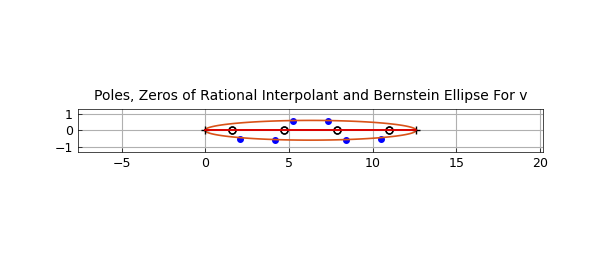
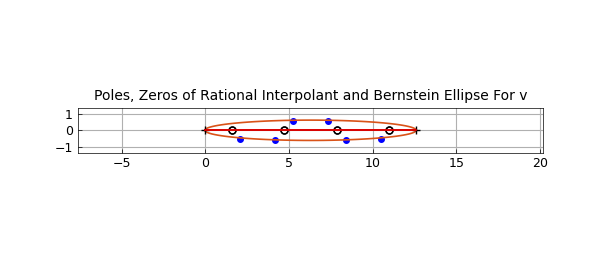
docs: refresh ThreeBody from verified CPU FFT602 execution
Publish actual stdout and changed figures after a complete unchanged script run; retain native ODE, SVD and rendering gaps with archived evidence.

Changed region(s): [[0.12, 0.3852, 0.9, 0.5333], [0.12, 0.563, 0.9, 0.5926]]

diff --git a/docs/numerical_parity_gaps_20261017.md b/docs/numerical_parity_gaps_20261017.md
@@ -6,8 +6,8 @@ function or example parity. Native reference is Chebfun 7574c77.
 | Path | Evidence | Next decision |
 |---|---|---|
 | Fixed48 PDE | Published scalar33 real CPU transform repair makes the unchanged authored fixed48 test pass;21parent controls qualify that scope. [Evidence](fft64_pde_cpu_20261017.json). | Broader FFT/PDE plans and latest-main CI remain required. |
-| Complex rational fit | Production poles still differ about1.04e-4. New complete JAX602inverse diagnostic matches367220native words; production transform is unchanged. [Evidence](ratinterp_full602_cpu_20261017.json). | Real602diagnostic now reproduces D302exactly; integrate both source transforms and verify public coefficients/poles plus independent controls. |
-| Small Hermite ASY | Later executed-route diagnostics qualify initializer/power/atan and Airy product/sqrt arithmetic. Free n2 improves to x8.98e-9/v4.18e-8 but still fails. [Sealed diagnostic review](/scratch/gpfs/CRYOEM/gilleslab/mg6942/_agent_scratch/hermite_airy_step8_review_20261017/REVIEW.json). | Resolve same-theta step9 geometry and remaining free trajectory; no guard removal or production Airy patch yet. |
+| Complex rational fit | Published FFT602/C2R integration qualifies129final-source controls and exactD/V/Z assembly. Pole gap is2.076e-11; denominator gap5.739e-12. [Evidence](fft602_rational_integration_cpu_20261017.json). | Fresh unchanged ThreeBody415coefficients equal retained input; full run104.57s,1380imports preguarded. Same-input JAX default/QR SVD both retain5.739e-12vector discrepancy. Full native ODE/second-fit/figure/performance parity remains open. |
+| Small Hermite ASY | Later diagnostics pass n2/5/12/16/20 scoped bounds; n3 preserves native source error. n4/6 fail and n8/10 exceed retained phase support. [Review](/scratch/gpfs/CRYOEM/gilleslab/mg6942/_agent_scratch/hermite_small_scope_review_20261017/REVIEW.json). | General gamma/Miller diagnostics improve n4 but leave node failure; derivative/Newton ordering remains under investigation. Production small-order guard retained. |
 
 [Detailed bindings and limitations](transform_sensitive_diagnostics_cpu_20261017.json)
 and [rational stage report](ratinterp_complex_stages_cpu_20261017.json) retain
@@ -25,7 +25,7 @@ unqualified. Different minima on a continuum are not evidence of an error.
 product arithmetic and mirroring for the retained complex fit. The gap remains
 open; diagnostic native crossfeeds are never production substitutions.
 
-## Complete complex602 inverse diagnostic — later 2026-10-17
+## Historical complex602 inverse diagnostic — superseded by integration below
 
 The complete JAX7x2x43inverse now matches all367220native outputwords across
 positive, actual602x151 and independently generated602x151 matrices. Outer
@@ -36,7 +36,7 @@ real2x7x43route constructing D302still differs up to4.44e-16; later diagnostic
 qualification below reproduces it exactly, with integration still required.
 [Full evidence and preserved failed attempts](ratinterp_full602_cpu_20261017.json).
 
-## Real602 and D302 diagnostic — later 2026-10-17
+## Historical real602 and D302 diagnostic — superseded by integration below
 
 The source-derived real602FFT matches275424nonredundant native outputwords
 across positive, actual and independent arrays. All690captured stagewords
@@ -44,3 +44,14 @@ match, and sourceD302construction matches all91204words. Both real and complex
 transform diagnostics are now qualified on these inputs. Production integration,
 exact final assembly/public poles and independent API/AD/performance controls
 remain required. [Evidence](ratinterp_real602_cpu_20261017.json).
+
+## Production integration and fresh ThreeBody execution
+
+[Production integration](fft602_rational_integration_cpu_20261017.json) supersedes
+the diagnostic-only production-status statements above. The unchanged complete
+[ThreeBody rerun](threebody_fft602_current_cpu_20261017.json) reproduces both
+rational fits and all four figures. All reference dimensions match; all four
+reference pixel comparisons differ. Five printed output blocks use actual
+captured stdout. The two changed PNGs and current numerical outputs are
+published. This does not close full native ODE, second-fit residue, renderer
+or matched native performance parity.

diff --git a/docs/examples/ode-nonlin/ThreeBodyProblem.md b/docs/examples/ode-nonlin/ThreeBodyProblem.md
@@ -99,7 +99,7 @@ max(abs(rh(linspace(0,4*pi,100)) - v(linspace(0,4*pi,100))))
 
 ```text
 ans =
-     4.859053661592988e-10
+     4.858349981994109e-10
 ```
 
 ## Analysis of Singularities
@@ -112,14 +112,14 @@ poles
 
 ```text
 poles =
-  2.092587694719901 - 0.539634303612716i
-  2.912620119913508 + 1.939058982833960i
-  4.188725872591013 - 0.551336319657008i
-  5.233710456912989 + 0.551707280056816i
-  7.332660227865999 + 0.551707257109169i
-  8.377644821226600 - 0.551336336168766i
-  9.653752540866988 + 1.939062237534320i
- 10.473782862057893 - 0.539634393888065i
+  2.092587943564713 - 0.539633935969581i
+  2.912578159741150 + 1.939020073309048i
+  4.188725944201677 - 0.551336253512759i
+  5.233710379376683 + 0.551707317232708i
+  7.332660340705836 + 0.551707092063434i
+  8.377644748935609 - 0.551336424392930i
+  9.653681175600379 + 1.939025959630813i
+ 10.473782281584352 - 0.539634403359369i
 ```
 
 A straightforward analysis considering the symmetries of the system (communicated to me by Viswanath) shows that if the solution that $v$ is approximating has any complex singularities, the real parts may only take the values $(\pi/3)[1,2,4,5]~(\mbox{mod}\ 2\pi)$.
@@ -130,14 +130,14 @@ real(poles)*3/pi
 
 ```text
 ans =
-   1.998274052807678
-   2.781347336598863
-   3.999938567278634
-   4.997825339576666
-   7.002174727669304
-   8.000061508598588
-   9.218654617589552
-  10.001725892206156
+   1.998274290436969
+   2.781307267585800
+   3.999938635661781
+   4.997825265534948
+   7.002174835423411
+   8.000061439565776
+   9.218586468779879
+  10.001725337894756
 ```
 
 We have found poles with real parts approximately $(\pi/3)[2,4,5,7,8,10]$, which agrees with the analysis. We do appear to have missed one singularity at $\pi/3$ and $11\pi/3$, but it is typical to expect only the singularities near the centre of the interval to be found. We have also found two additional poles. A plot shows that these are further from the real line.
@@ -203,7 +203,7 @@ This is a demonstration of the phenomenon of spurious poles or "Froissart double
 1. Private communication with Divakar Viswanath, July 2011
 2. A. Chenciner and R. Montgomery. A remarkable periodic solution of the three-body problem in the case of equal masses. *Annals of Mathematics- Second Series*, 152(3):881-902, 2000.
 3. P. Gonnet, R. Pachon, and L.N. Trefethen. Robust rational interpolation and least-squares. *Electronic Transactions on Numerical Analysis*, 38:146-167, 2011.
-4. Chebfun Example [approx/RationalInterp](https://www.chebfun.org/examples/approx/RationalInterp.html)
+4. Chebfun Example [approx/RationalInterp](../approx/RationalInterp.md)
 5. [http://en.wikipedia.org/wiki/Three_body_problem](http://en.wikipedia.org/wiki/Three_body_problem)
 
 ---

diff --git a/docs/parity_checklist.md b/docs/parity_checklist.md
@@ -27,6 +27,9 @@ There is **no defensible overall completion percentage** yet. Checked items belo
 
 ## Completed scoped work
 
+- [x] Fresh full ThreeBody after FFT602 integration:104.57s,1380actual imports preguarded, stable/no survivors. Fresh415coefficients match retained input words; bothfits and allfour600x270figures complete. Five actual stdout blocks and two changed PNGs regenerated. [Evidence](threebody_fft602_current_cpu_20261017.json). Full nativeODE/second-fit/renderer/performance parity remains open.
+
+
 - [x] Integrate source CPU602 Fourier/C2R arithmetic, direct inverse normalization and omitted Chebfun-domain inheritance. Final129checks pass, including all23literal default original ratinterp predicates and six native real-primal controls. Source D/product/coefficient assembly matches native words; public pole gap improves to2.076e-11. [Evidence](fft602_rational_integration_cpu_20261017.json).
 - [ ] Remaining rational SVD/pole gap, FFT wider plans/extreme values/dynamic native storage, full APIs and CPU performance. Local source kernels remain52.1x/32.7x slower than generic JAX at measured shapes; matched native performance unqualified.
 

diff --git a/HANDOFF_CODEX.md b/HANDOFF_CODEX.md
@@ -1,3 +1,16 @@
+# Latest fresh ThreeBody execution — 2026-10-17
+
+After FFT602integration, full unchanged script104.57s;1380actual imports all
+preguarded, stable source/no survivors. Bothfits151/8and157/156complete, five
+printed blocks regenerated from actualstdout, figures2/4refreshed. Four600x270
+figures remain different from official pixels. Fresh415inputcoefficients match
+retained input exactly; firstsame-input nativepolegap2.076e-11. NativeODE,
+secondfit/residue/renderer/performance/latestCI remainopen. JAXdefault/QRsame
+native150x9matrixdiagnostic bothretain5.739e-12alignedvectorgap; no algorithm
+switch. Run1missing35runtimeguardinputs and wrong-row initialSVDdriver are
+preserved, not credited as final qualification. Full run2guard accepted.
+Evidence: docs/threebody_fft602_current_cpu_20261017.json.
+
 # Latest FFT602/rational integration — 2026-10-17
 
 Production CPU length602 real forward, complex inverse and real-even C2R

diff --git a/docs/parity_status.md b/docs/parity_status.md
@@ -1,3 +1,15 @@
+# Latest ThreeBody after FFT602 integration — 2026-10-17
+
+The complete unchanged CPU script runs in104.57s with all1380observed imports
+preguarded, stable declared inputs and no survivors. Its newly constructed415
+coefficients equal retained input words exactly, and both fits complete with
+degrees151/8and157/156. The first fit's retained same-input native pole gap is
+2.076e-11. Five actual stdout blocks and two refreshed PNGs are published.
+All four600x270figures differ from official reference pixels. Full nativeODE,
+second-fit numerical/residue, renderer and matched performance parity remain
+open. See [evidence](threebody_fft602_current_cpu_20261017.json). This report
+supersedes earlier production pole/FFT diagnostic-only status below.
+
 # Latest LaplaceBall whole-script scope — 2026-10-17
 
 The complete unchanged script now runs on current CPU source, including its
